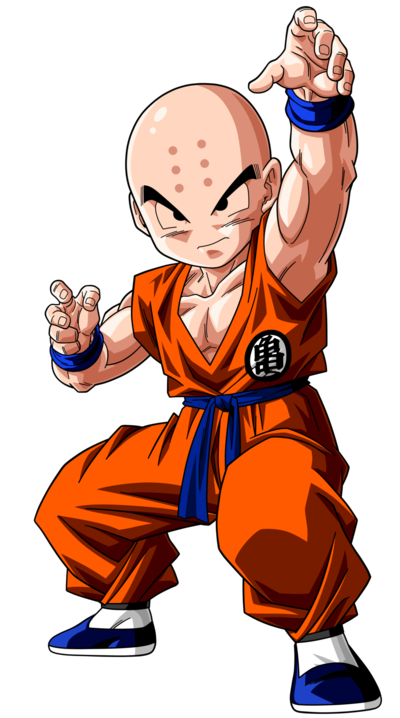
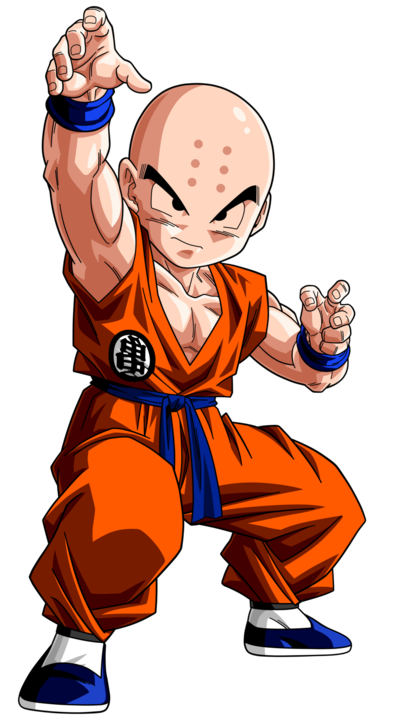
More changes to images and layout

diff --git a/assets/javascript/game.js b/assets/javascript/game.js
@@ -63,7 +63,7 @@ var dbzObject = {
             const element = this.characterListArray[i].name;
             console.log(element);
             var newCharacterDiv = $("<div>");
-            newCharacterDiv.addClass("thumbnail d-inline text-center");
+            newCharacterDiv.addClass("thumbnail d-inline text-center mx-1");
             newCharacterDiv.attr({
                 id: this.characterListArray[i].name + "-div",
                 value: this.characterListArray[i].name
@@ -218,7 +218,7 @@ var dbzObject = {
                     dbzObject.enemySelectedValue = "Goku";
                     $(this).removeClass("character-image enemies-available");
                     if (dbzObject.gameOver === false) {
-                        $(this).addClass("defender-character-image");
+                        $(this).addClass("defender-character-image flipped");
                     }
                 } else if ($(this).attr("value") === "Krillin") {
                     $("#Krillin-div").detach().appendTo("#defender");
@@ -227,7 +227,7 @@ var dbzObject = {
                     dbzObject.enemySelectedValue = "Krillin";
                     $(this).removeClass("character-image enemies-available");
                     if (dbzObject.gameOver === false) {
-                        $(this).addClass("defender-character-image");
+                        $(this).addClass("defender-character-image flipped");
                     }
                 } else if ($(this).attr("value") === "Piccolo") {
                     $("#Piccolo-div").detach().appendTo("#defender");
@@ -236,7 +236,7 @@ var dbzObject = {
                     dbzObject.enemySelectedValue = "Piccolo";
                     $(this).removeClass("character-image enemies-available");
                     if (dbzObject.gameOver === false) {
-                        $(this).addClass("defender-character-image");
+                        $(this).addClass("defender-character-image flipped");
                     }
                 } else if ($(this).attr("value") === "Vegeta") {
                     $("#Vegeta-div").detach().appendTo("#defender");
@@ -245,7 +245,7 @@ var dbzObject = {
                     dbzObject.enemySelectedValue = "Vegeta";
                     $(this).removeClass("character-image enemies-available");
                     if (dbzObject.gameOver === false) {
-                        $(this).addClass("defender-character-image");
+                        $(this).addClass("defender-character-image flipped");
                     }
 
                 }
@@ -264,7 +264,7 @@ var dbzObject = {
     // show damage in #flavor-text
     battleFunction: function () {
         if (this.characterSelected === true && this.enemySelected === true && this.hasAttacked === false) {
-            $("#defenderP, #attackDiv").show();
+            $("#defenderP, #attack").show();
             $("#flavor-text").text("Oh, he's a tough one. Click ATTACK button to fight until someone loses!")
         }
 
@@ -316,7 +316,7 @@ var dbzObject = {
         $(".character-image").off();
         $("#attack").off();
         $("#attack").on("click", function () {
-            $("#attackDiv").hide();
+            $("#attack").hide();
             $("#defender, #your-character").stop();
             if (dbzObject.characterSelectedValue === "Goku" && dbzObject.enemySelectedValue === "Krillin") {
                 theRealBattleFunction(gokuSelect, krillinSelect);
@@ -365,6 +365,9 @@ var dbzObject = {
         var playerAnimate = $("#your-character");
 
         if (playerCharacter.healthPoints > 0 && defenderCharacter.healthPoints > 0) {
+
+            $(".player-character-image").attr("src", "./assets/images/" + this.characterSelectedValue.toLowerCase() + "Attack.png");
+            $(".defender-character-image").attr("src", "./assets/images/" + this.enemySelectedValue.toLowerCase() + "Attack.png");
             playerAnimate.animate({
                 left: '50px'
             }, 100, 'linear').animate({
@@ -405,7 +408,15 @@ var dbzObject = {
                 left: '0px'
             }, 50, 'linear');
 
-            $("#attackDiv").delay(1700).show(0);
+            $("#attack").delay(1700).show(0);
+
+            function changePlayerImage() {
+                $(".player-character-image").attr("src", "./assets/images/" + dbzObject.characterSelectedValue.toLowerCase() + ".png");
+
+                $(".defender-character-image").attr("src", "./assets/images/" + dbzObject.enemySelectedValue.toLowerCase() + ".png");
+            }
+            setTimeout(changePlayerImage, 1700);
+
         } else if (defenderCharacter.healthPoints <= 0 && playerCharacter.healthPoints > 0) {
             playerAnimate.animate({
                 left: '100px'

diff --git a/index.html b/index.html
@@ -34,7 +34,7 @@
         </div>
 
         <div class="row align-self-center justify-content-center align-items-center align-text-bottom">
-            <div id="your-character" class="col w100">
+            <div id="your-character" class="col h100 w100">
                 <p id="yourCharacterP">Your Character</p>
             </div>
             <div id="flavor-text" class="col-3 align-text-bottom">
@@ -45,9 +45,11 @@
             </div>
         </div>
         <div class="row align-self-center justify-content-center align-items-center">
+            <div class="col-md-2"></div>
             <div class="col-md-8" id="attackDiv">
                 <button type="button" class="btn btn-danger" id="attack">Attack</button>
             </div>
+            <div class="col-md-2"></div>
         </div>
         <div class="row align-self-center justify-content-center align-items-center">
             <div id="resetDiv" class="col-md-8">

diff --git a/assets/css/style.css b/assets/css/style.css
@@ -72,6 +72,14 @@ img.enemies-available {
     background: #377989;
 }
 
+.flipped {
+    transform: scale(-1, 1);
+    -moz-transform: scale(-1, 1);
+    -webkit-transform: scale(-1, 1);
+    -o-transform: scale(-1, 1);
+    -khtml-transform: scale(-1, 1);
+    -ms-transform: scale(-1, 1);
+}
 
 
 .huge-img {
